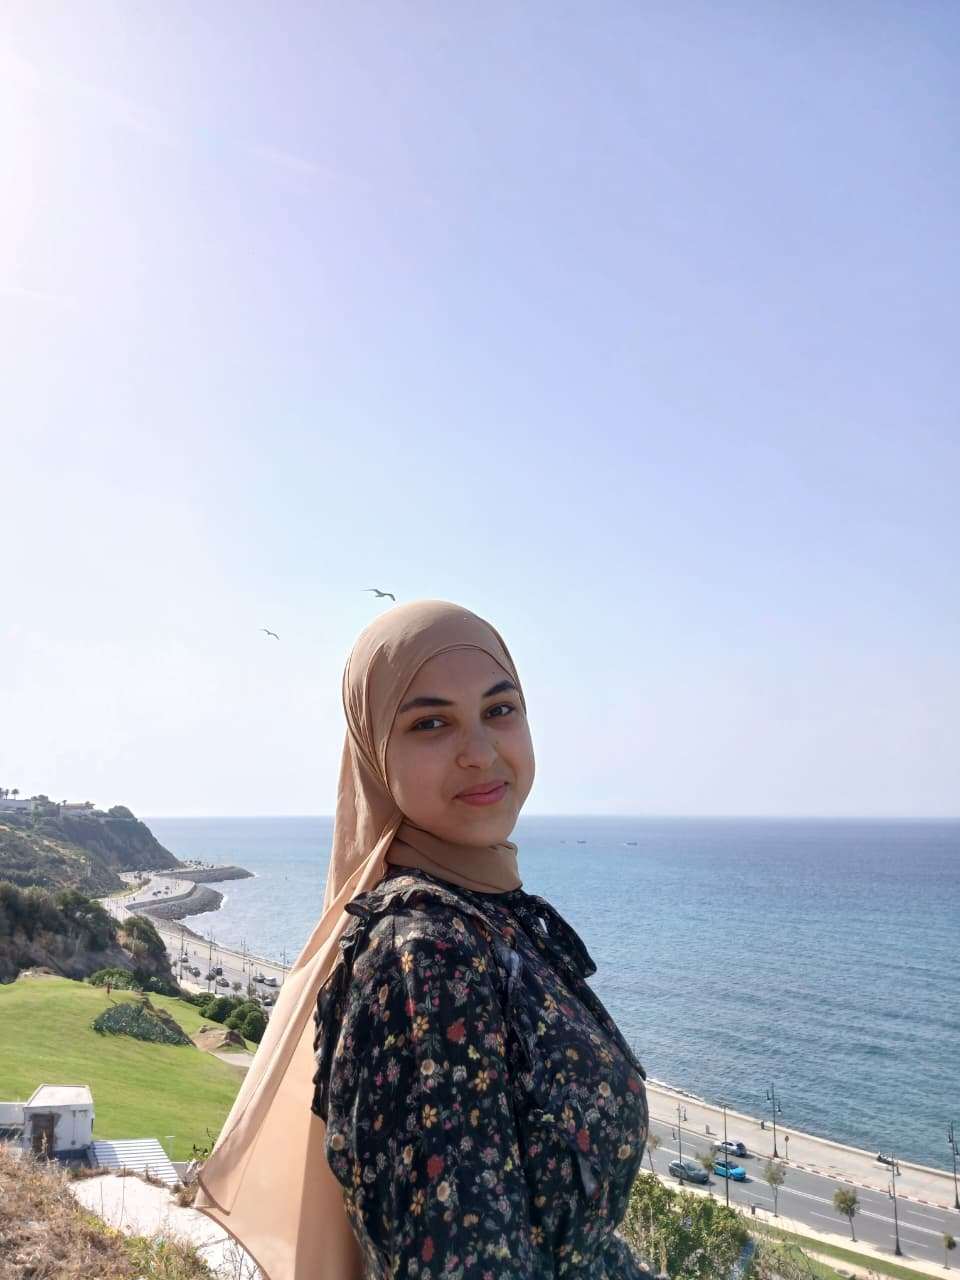
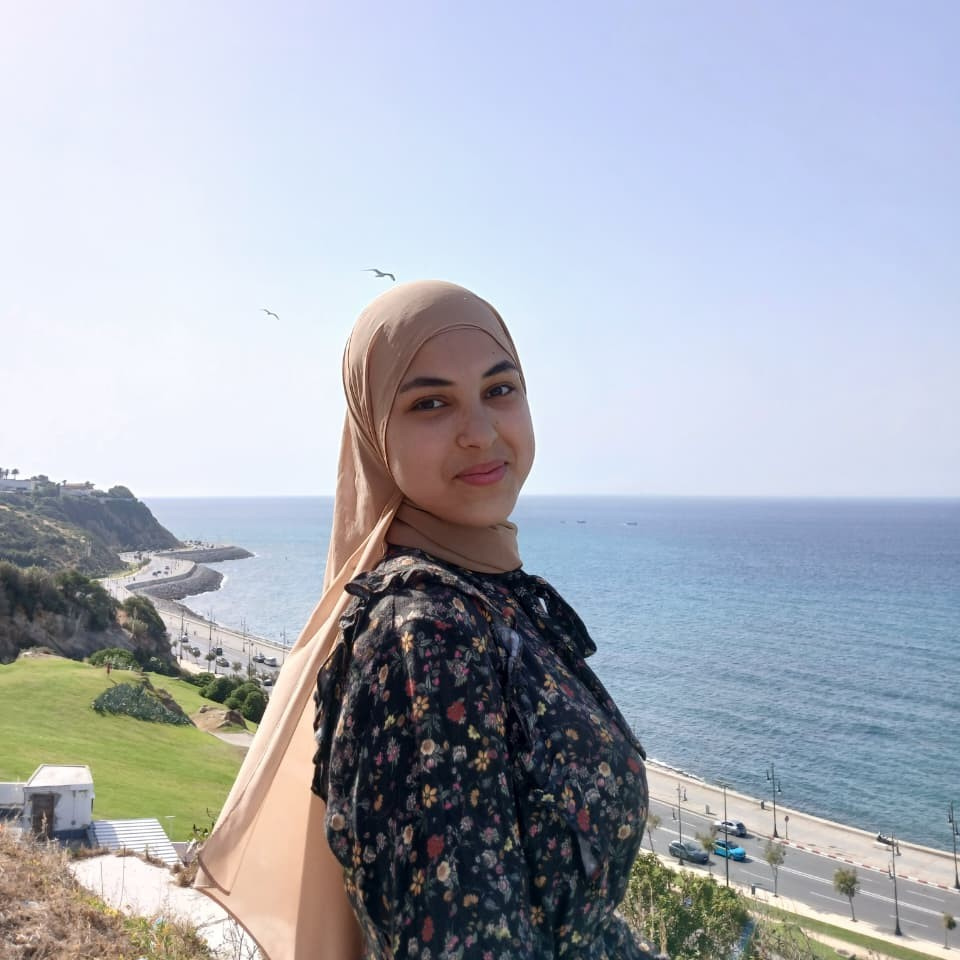
Ajustement photo

diff --git a/api/index.php b/api/index.php
@@ -113,7 +113,7 @@ a:focus-visible,.lang:focus-visible{outline:3px solid var(--fg);outline-offset:3
 .photo-wrap::before{content:"";position:absolute;inset:-18px -26px 18px 26px;background:var(--lilac);border-radius:46% 54% 60% 40% / 50% 45% 55% 50%;z-index:0}
 .photo-wrap::after{content:"";position:absolute;width:64px;height:64px;right:-14px;bottom:-6px;background:var(--peach);border-radius:50%;z-index:0}
 .photo{position:relative;z-index:1;width:100%;height:100%;border-radius:50%;background:var(--card);box-shadow:0 0 0 6px var(--card),0 0 0 9px var(--accent);overflow:hidden;display:grid;place-items:center;color:var(--accent)}
-.photo img{width:100%;height:100%;object-fit:cover;object-position:center 75%;display:block}
+.photo img{width:100%;height:100%;object-fit:cover;display:block}
 .photo svg{width:84px;height:84px}
 .eyebrow{font-size:13px;font-weight:700;letter-spacing:.14em;text-transform:uppercase;color:var(--accent);margin:0 0 8px}
 h1{font-family:var(--font-display);font-weight:400;font-size:clamp(2.2rem,6vw,3.8rem);line-height:1.06;margin:0 0 14px;text-wrap:balance}
